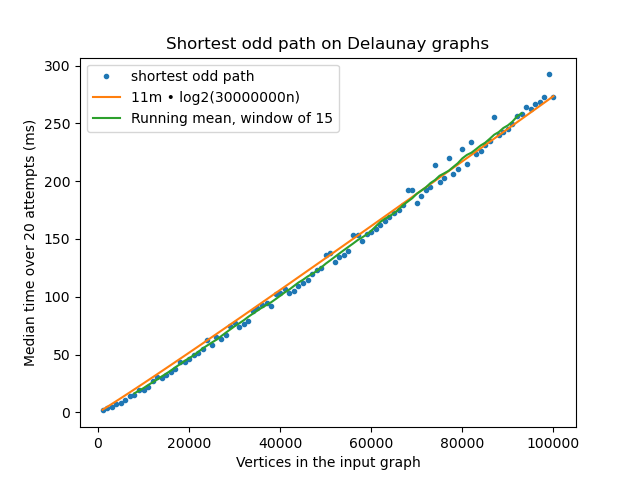
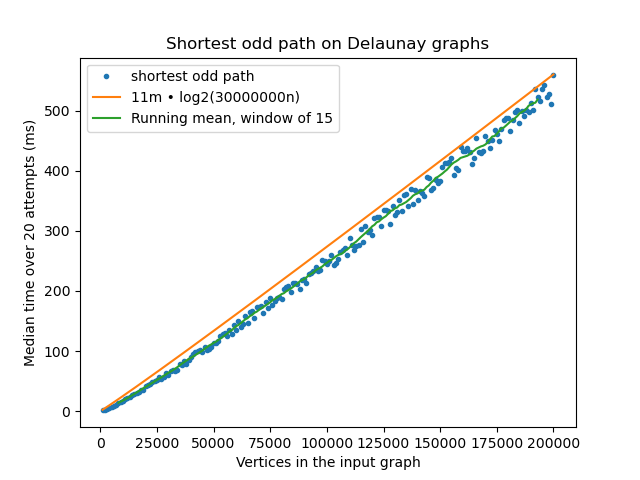
Add new and bigger plot for Shortest Odd Path

diff --git a/chapter/shortest_odd_path/analysis.tex b/chapter/shortest_odd_path/analysis.tex
@@ -64,7 +64,7 @@ The results are a little mixed. The UnionFind-based structure spends $4.2\%$ mor
 
 \subsubsection{Running times on Delaunay graphs}
 \label{subsubsection:odd-path-delaunay-testing}
-Like explained in \Cref{section:delaunay}, we have generated 101 Delaunay graphs of sizes 1000 to 100 000. For each graph, we have found a sourec and target with the highest possible shortest path between them, and run our \textsc{Shortest Odd Path} algorithm. The algorithm gets 20 attempts on each input graph, and we take the median and plot it below.
+Like explained in \Cref{section:delaunay}, we have generated 201 Delaunay graphs of sizes 1000, 2000, 3000 etc. to 200 000. For each graph, we have found a source and target with the highest possible shortest path between them, and run our \textsc{Shortest Odd Path} algorithm. The algorithm gets 10 attempts on each input graph, and we take the median and plot it below.
 
 The theoretical running time is $O(m \log n)$, and we have tried our best to come up with constants to create a running time function that matches our algorithm. Remember that in Delaunay graphs we have that $m \leq 6n$, so we have set $m := 6n$ in this function.
 
